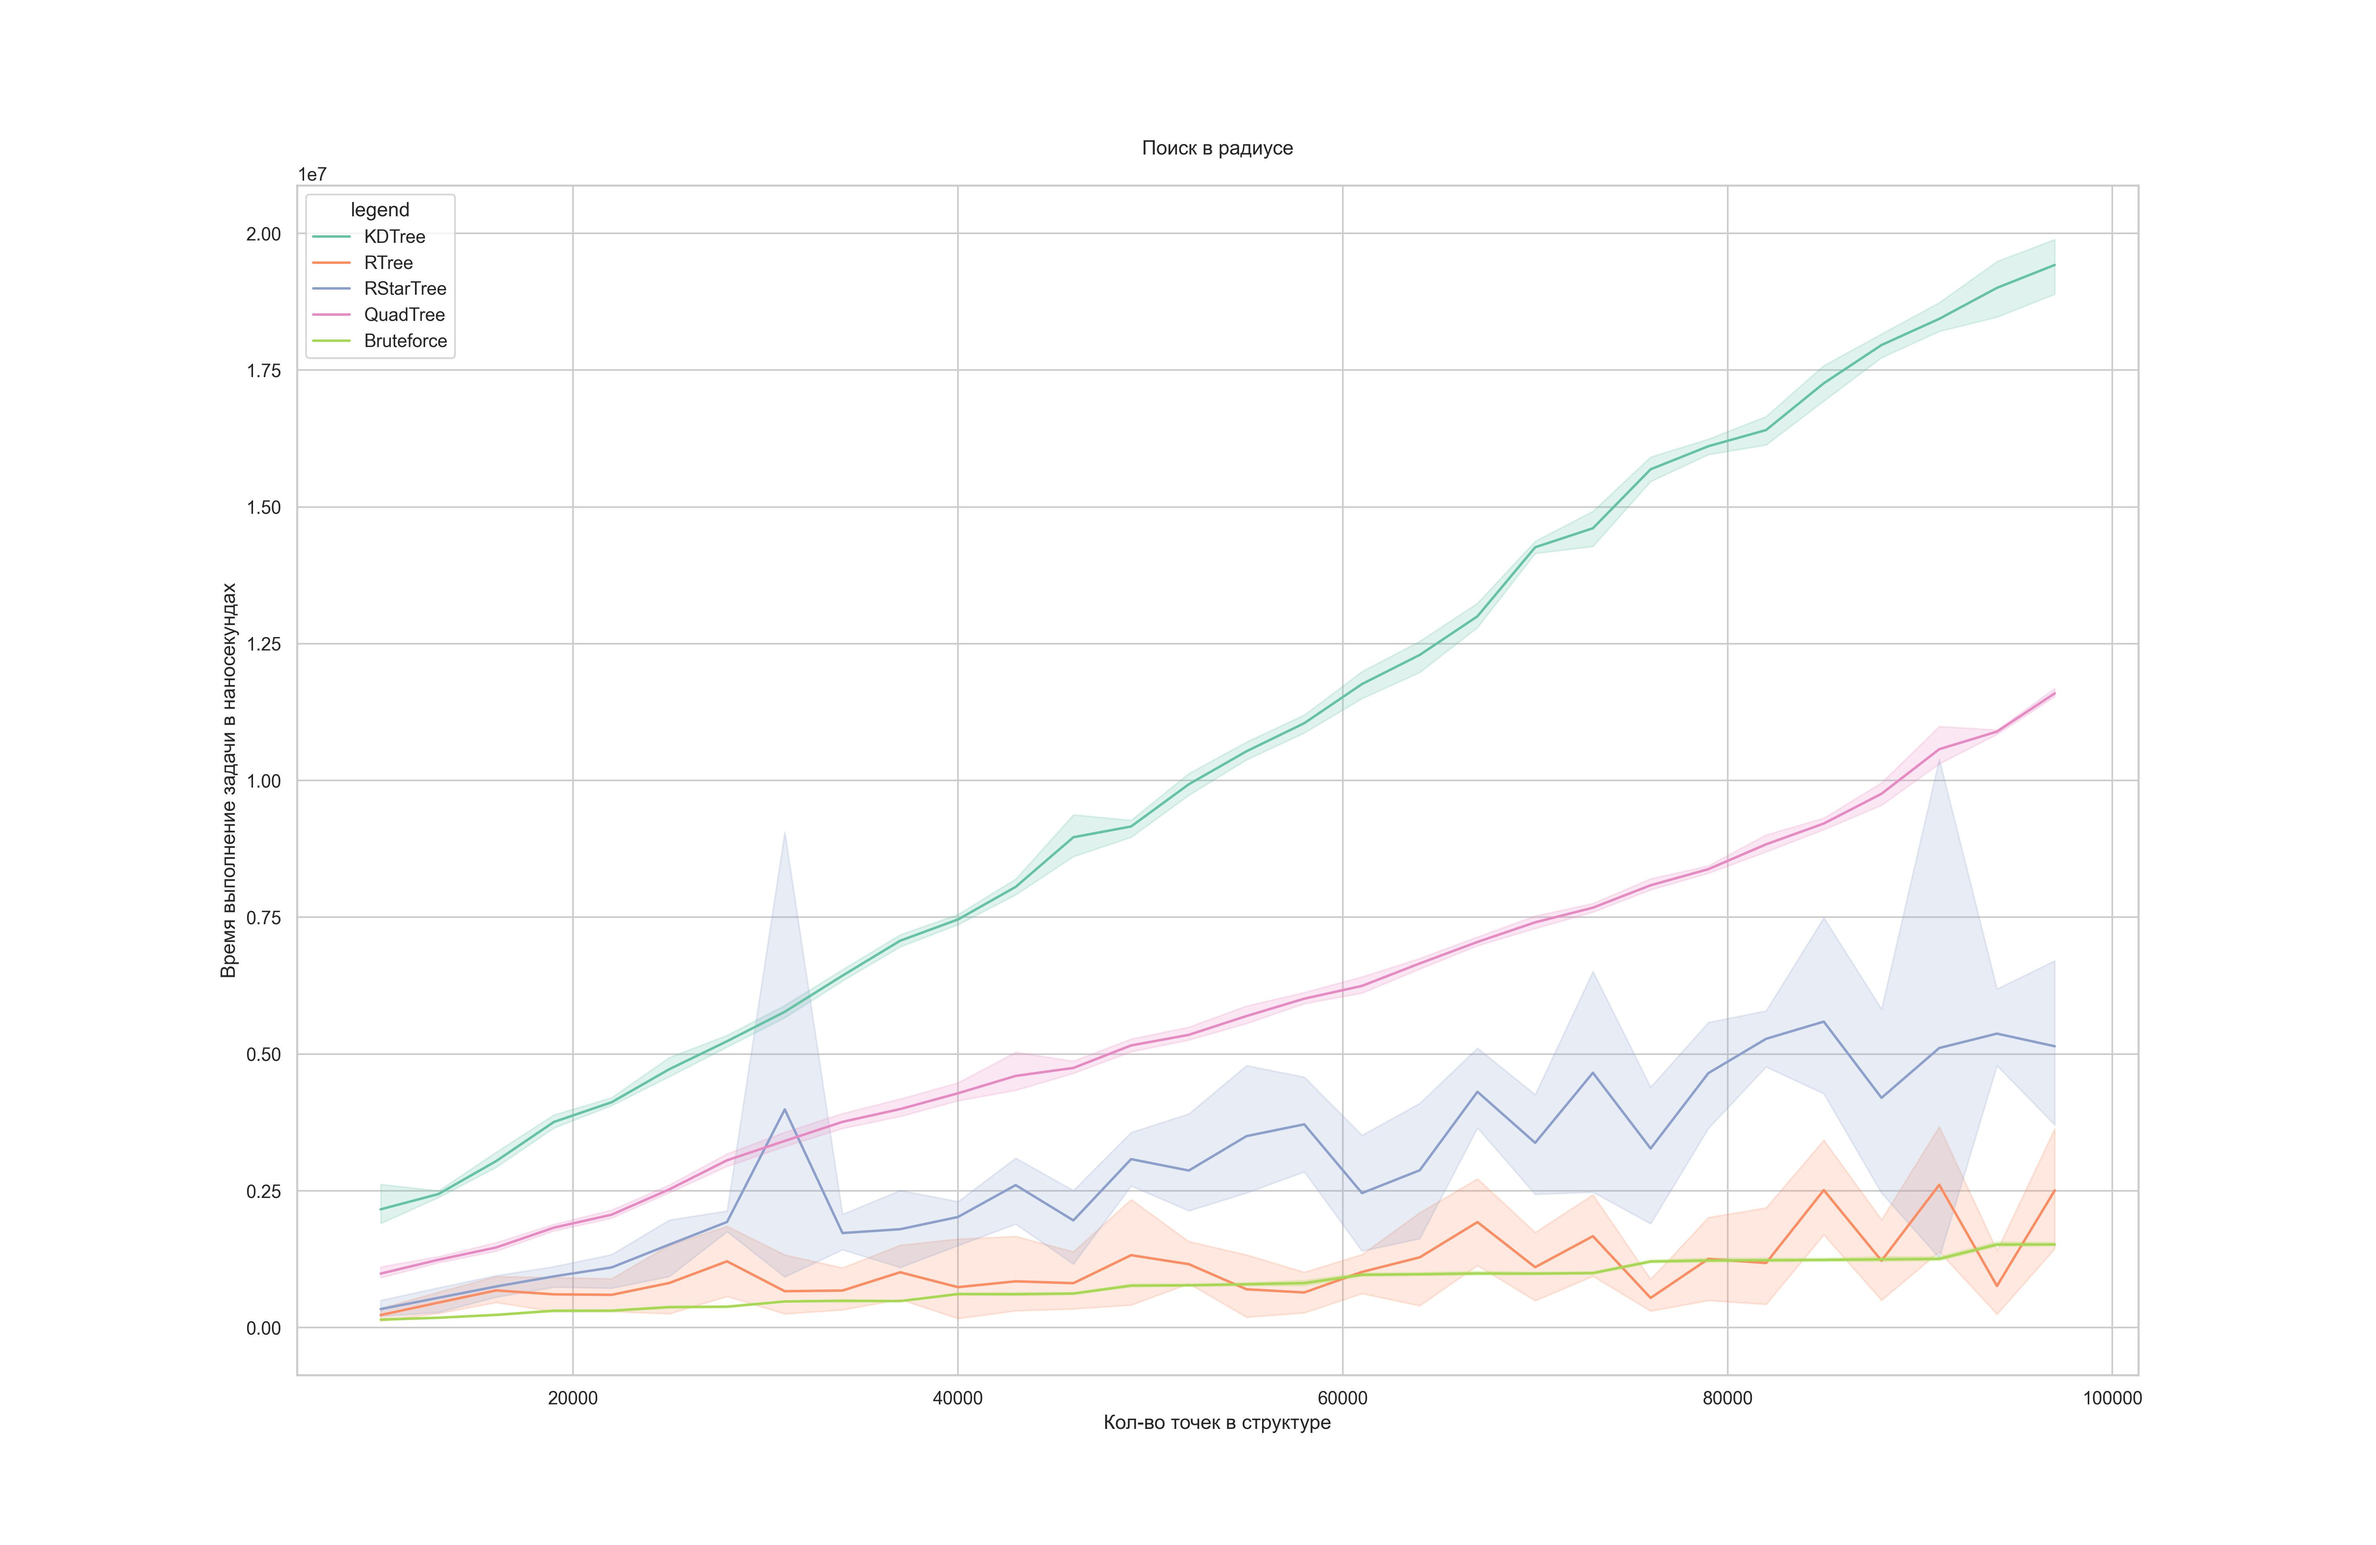
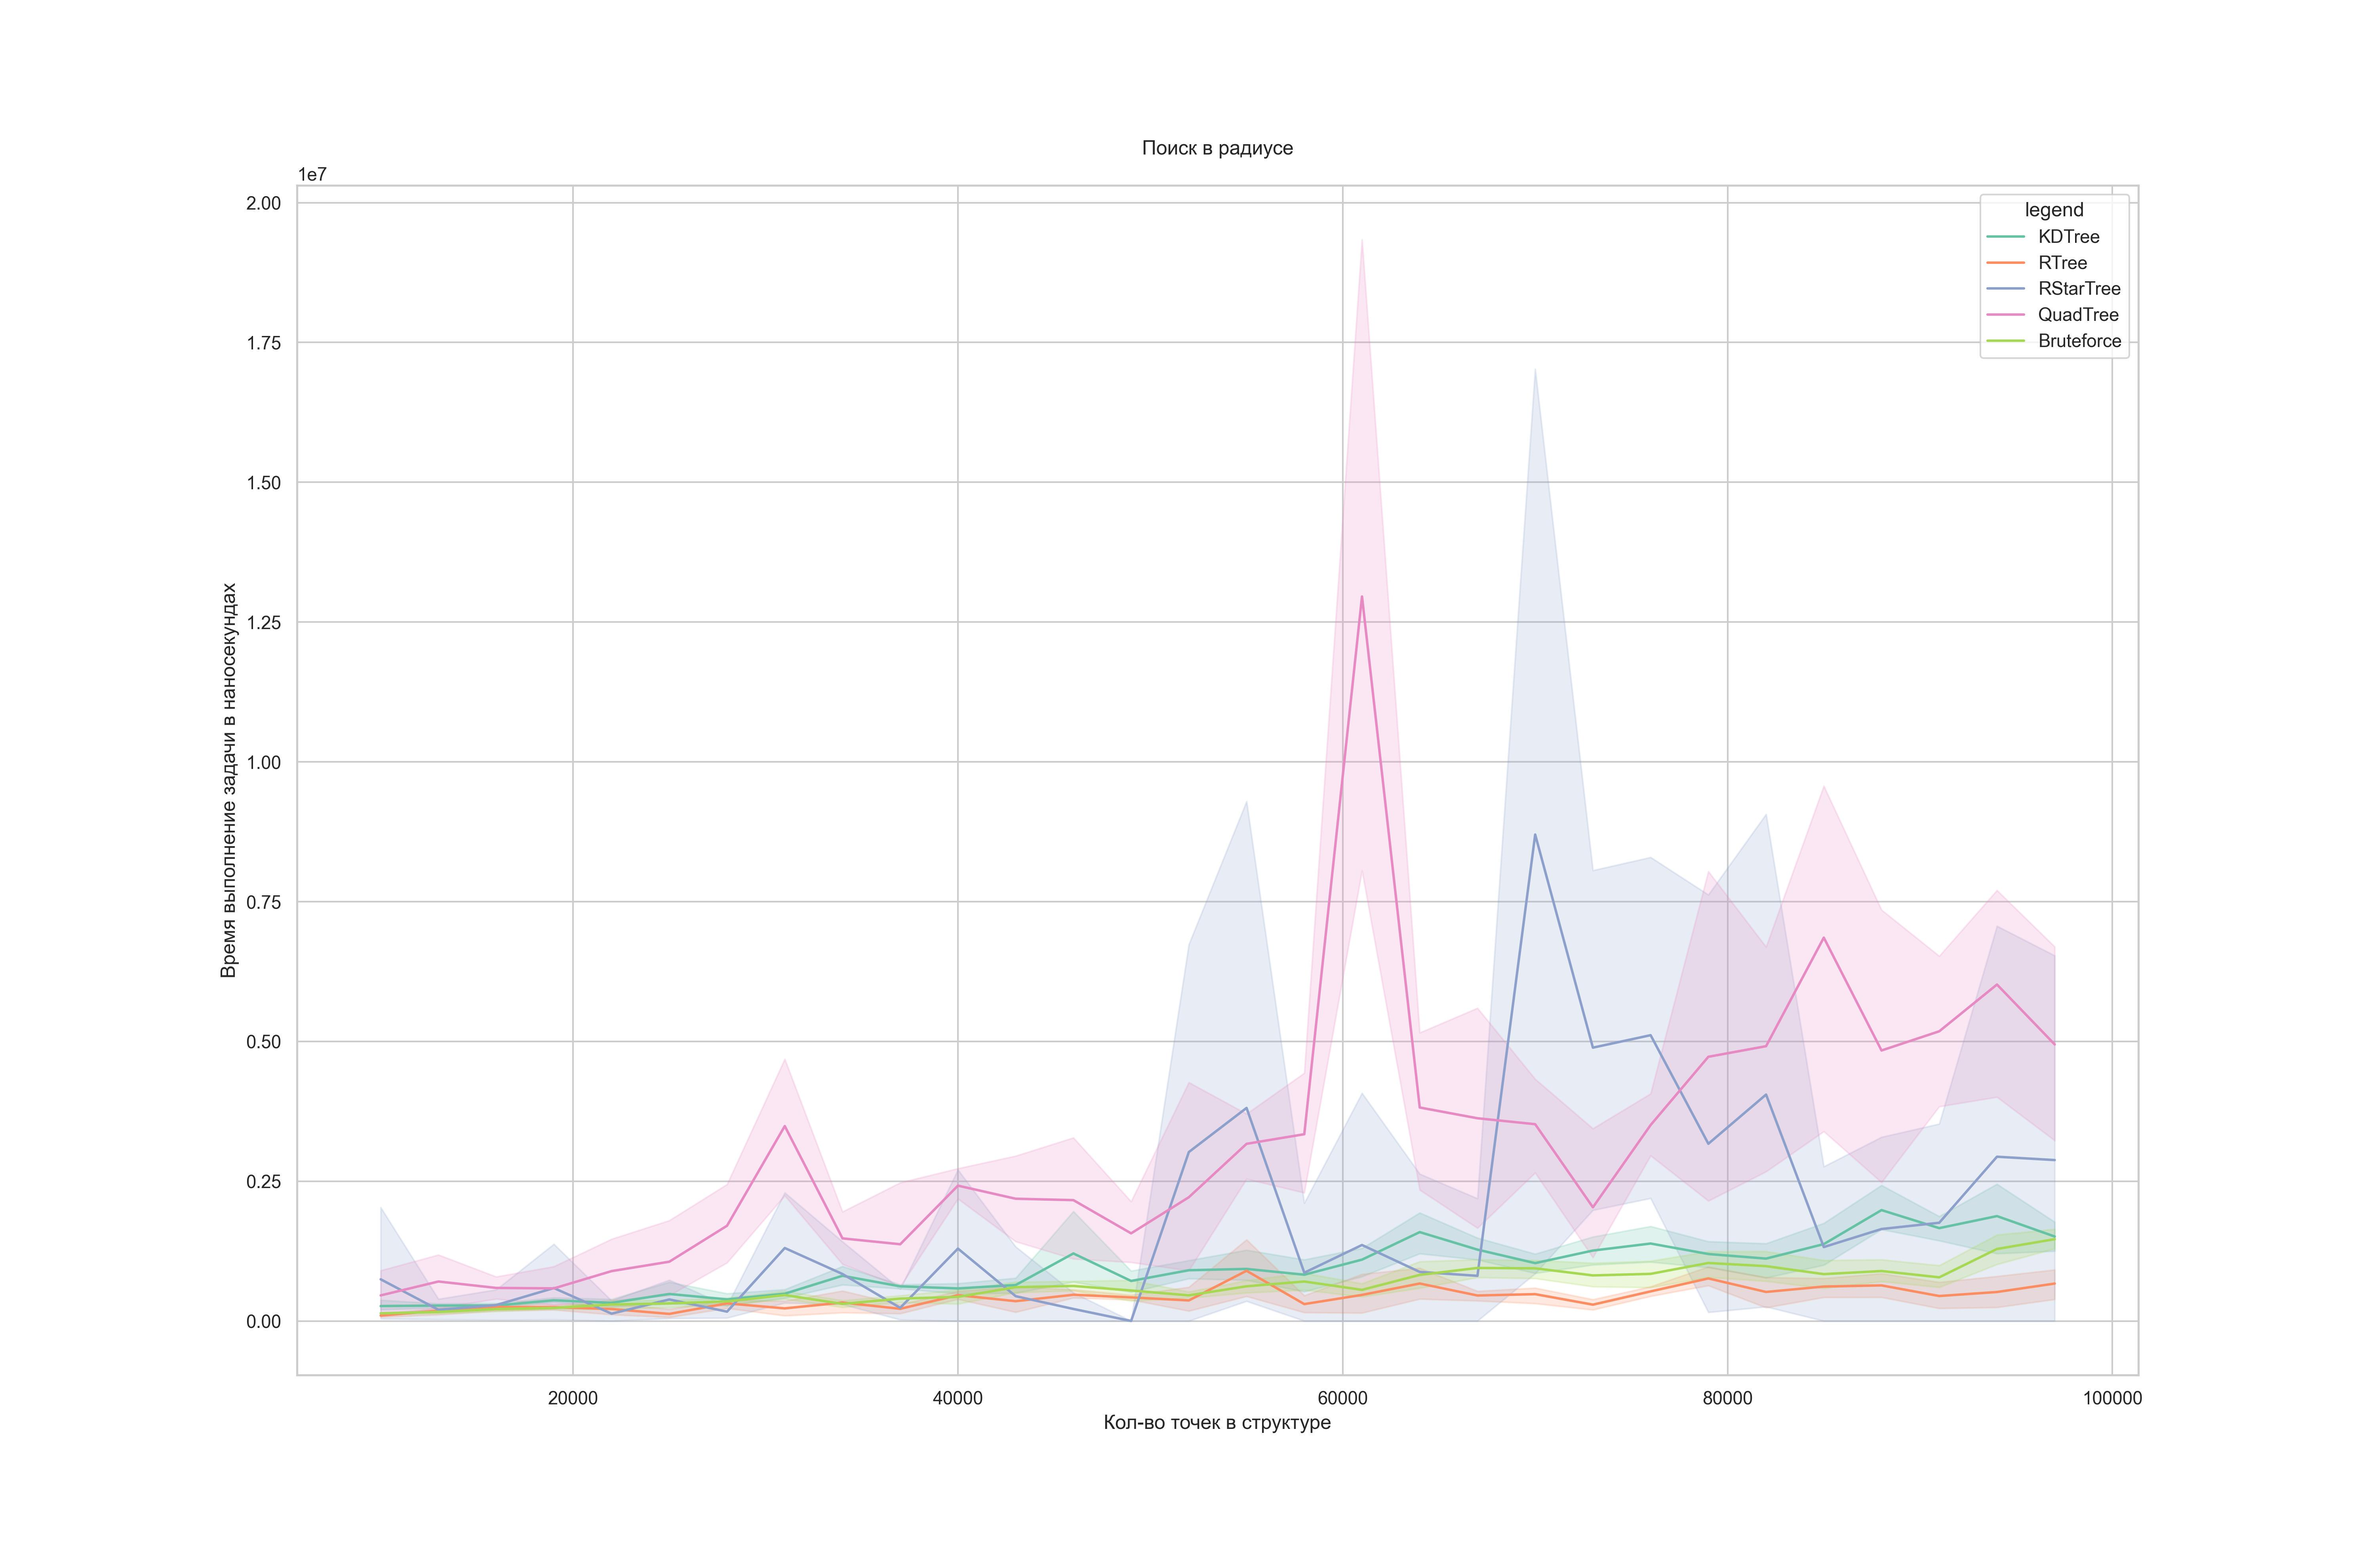
auto: autocommit

diff --git a/docs/ScienceDays.md b/docs/ScienceDays.md
@@ -1,0 +1,18 @@
+## актуальность проблематики работы/исследования/проекта;
+## предметная область;
+## содержательная постановка задачи;
+##  структура и примеры исходных данных (если есть) и те их особенности и свойства, которые значимы (влияют) (если имеются);
+## математическая постановка задачи (или задач, в случае если их более одной);
+## ключевые характеристики и особенности выбранного и/или используемого математического (и иного научного) аппарата;
+## использование методов, моделей и технологий и з направлений ИИ;
+## использование методов и средств ИКТ;
+## сведения о полученных результатах;
+### Графики
+Анализ графиков:
+- Очень часто "грубая сила" (пояснить что это) работает лучше всего
+- 
+## дополнительный иллюстративный материал (при необходимости);
+## вывод
+- R(*)Tree - почти всегда
+- KD(B)Tree - на KNN
+- Geohash/H3+Btree - 
